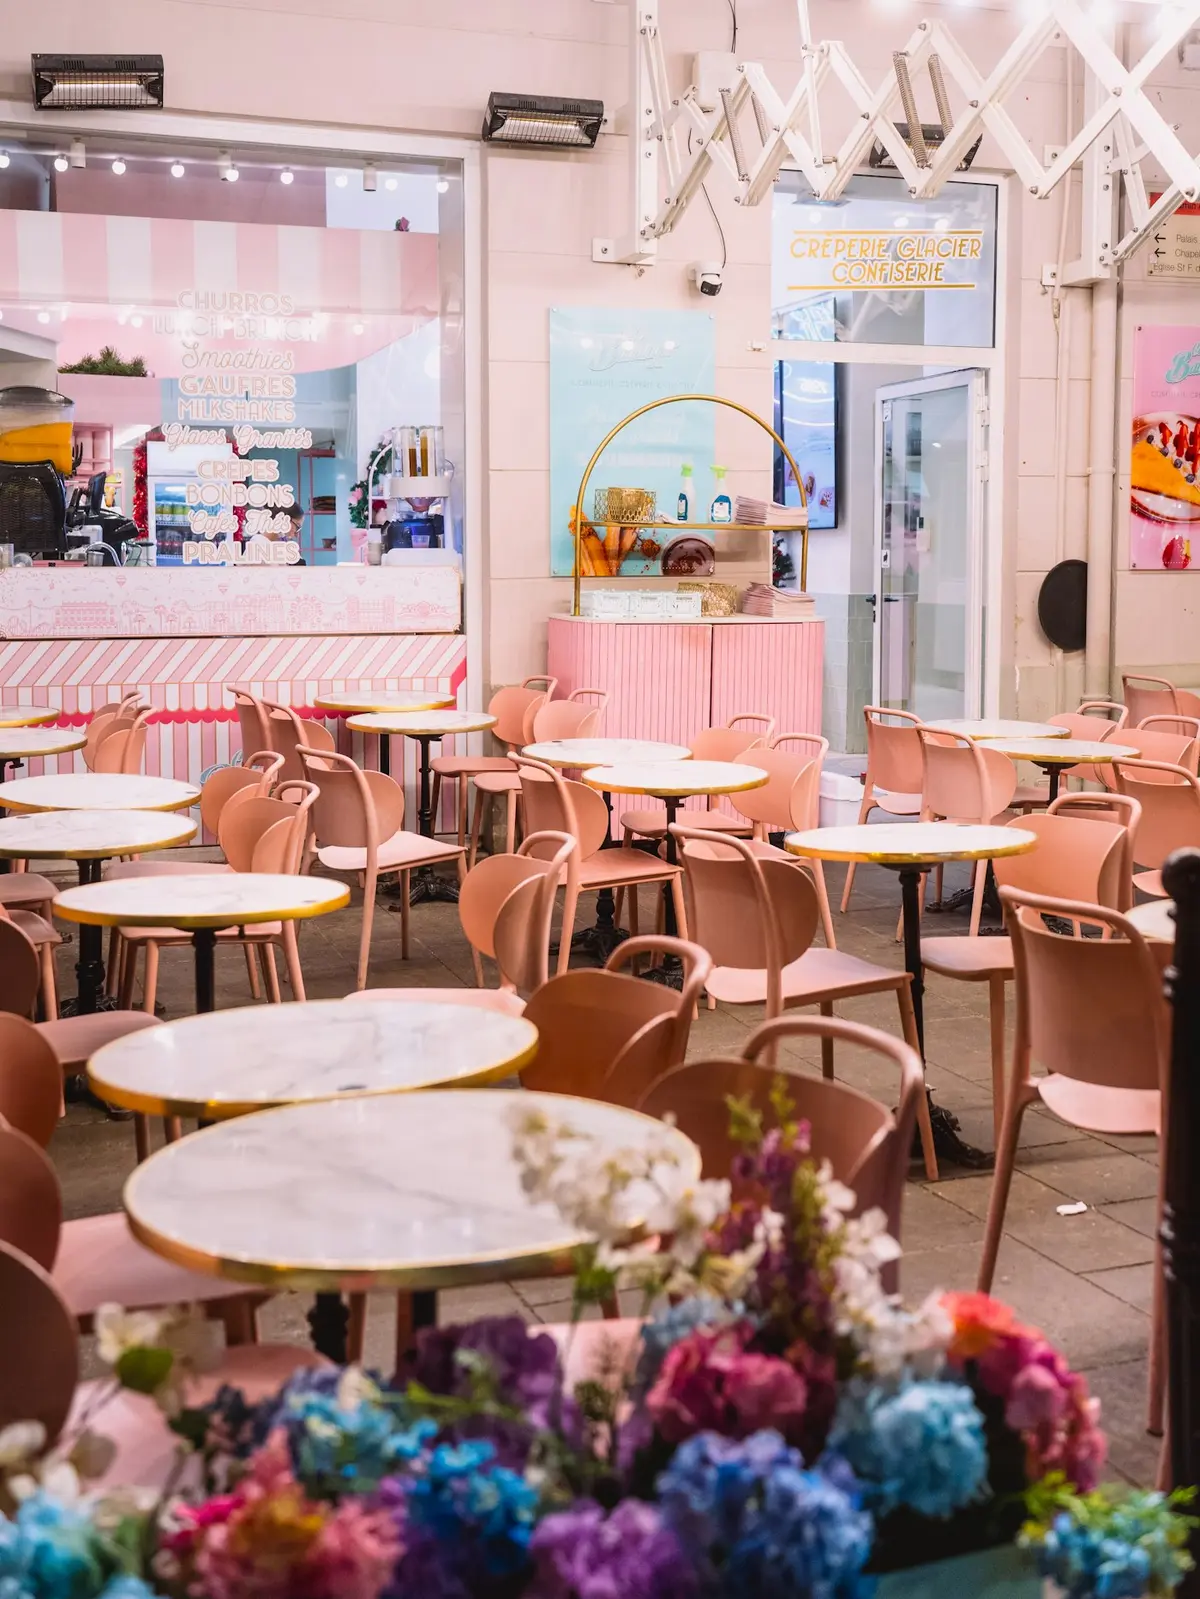
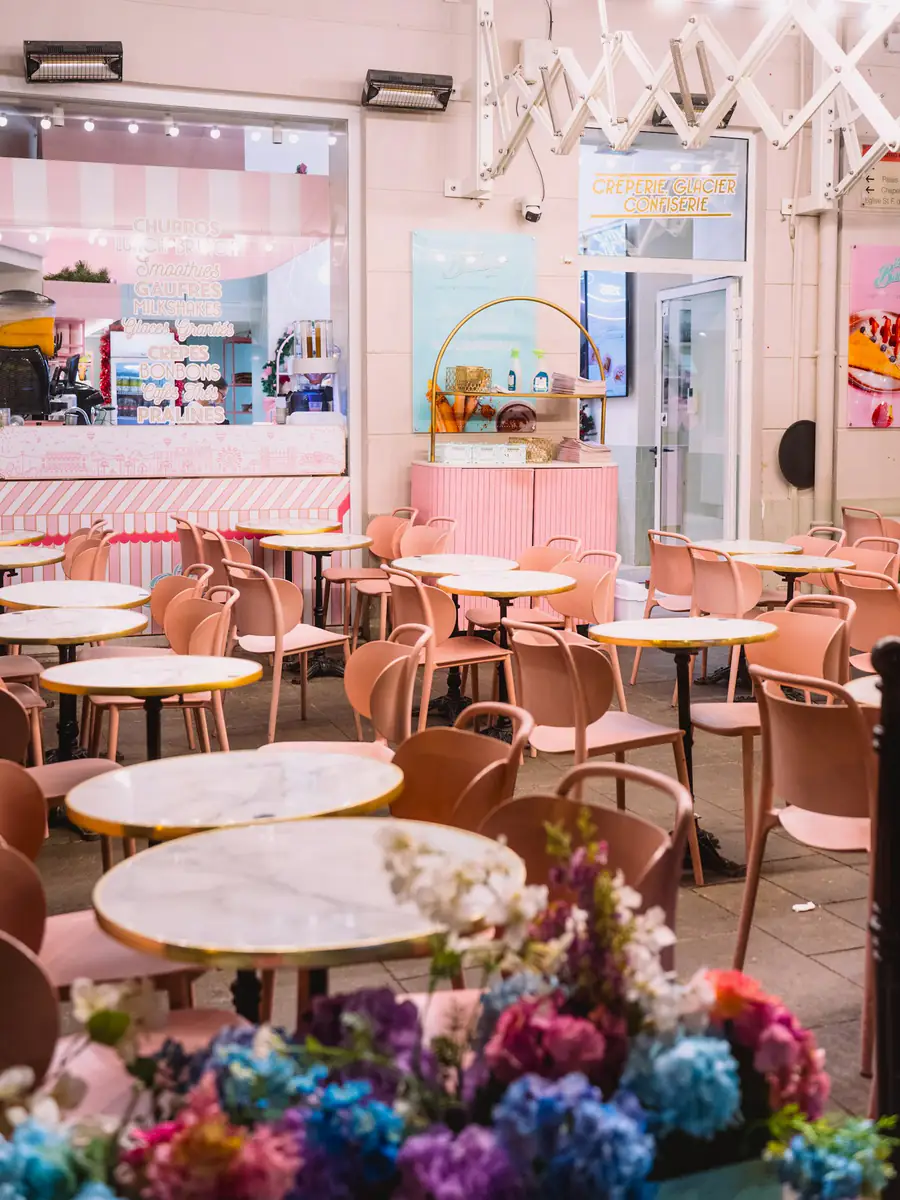
Rodapé com assinatura Felipe.Dev e site mais leve
- Rodapé: assinatura Felipe.Dev à direita e só "Projeto fictício de portfólio" à esquerda
- Donut só flutua (sem seguir o mouse nem arrastar); sombra calculada uma vez
- Fotos reexportadas no tamanho em que aparecem (1,4 MB -> 574 kB)
- Caldas escorrem uma vez ao aparecer, sem refazer o filtro a cada rolagem
- Bolhas desfocadas estáticas e CSS do mapa carregado junto com o mapa

Changed region(s): [[0.7467, 0.1542, 0.8089, 0.185], [0.9956, 0.2775, 1.0, 0.3083]]

diff --git a/src/three/HeroCanvas.tsx b/src/three/HeroCanvas.tsx
@@ -1,4 +1,4 @@
-import { ContactShadows, Environment, Float, Lightformer, PresentationControls } from '@react-three/drei'
+import { ContactShadows, Environment, Float, Lightformer } from '@react-three/drei'
 import { Canvas, useFrame } from '@react-three/fiber'
 import { useEffect, useRef, useState } from 'react'
 import type { Group } from 'three'
@@ -11,17 +11,14 @@ function Scene({ reduced }: Props) {
   const tiltRef = useRef<Group>(null)
   const spinRef = useRef<Group>(null)
 
-  useFrame((state, delta) => {
+  useFrame((_, delta) => {
     const tilt = tiltRef.current
     const spin = spinRef.current
     if (!tilt || !spin) return
-    // Gira devagar sozinho e um pouco mais conforme a página rola.
+    // Gira devagar sozinho e inclina um pouco conforme a página rola.
     const scroll = window.scrollY / window.innerHeight
     if (!reduced) spin.rotation.z += delta * 0.18
-    const targetX = -0.95 + scroll * 0.6 + (reduced ? 0 : state.pointer.y * 0.18)
-    const targetY = reduced ? 0 : state.pointer.x * 0.35
-    tilt.rotation.x = MathUtils.damp(tilt.rotation.x, targetX, 4, delta)
-    tilt.rotation.y = MathUtils.damp(tilt.rotation.y, targetY, 4, delta)
+    tilt.rotation.x = MathUtils.damp(tilt.rotation.x, -0.95 + scroll * 0.6, 4, delta)
     tilt.position.y = MathUtils.damp(tilt.position.y, -scroll * 0.8, 4, delta)
   })
 
@@ -31,15 +28,13 @@ function Scene({ reduced }: Props) {
       <directionalLight position={[3, 4, 5]} intensity={1.6} color="#fff4f0" />
       <directionalLight position={[-4, -2, 2]} intensity={0.5} color="#8edfd9" />
 
-      <PresentationControls global={false} cursor snap speed={1.4} polar={[-0.5, 0.5]} azimuth={[-0.9, 0.9]}>
-        <Float speed={reduced ? 0 : 1.6} rotationIntensity={reduced ? 0 : 0.25} floatIntensity={reduced ? 0 : 0.8}>
-          <group ref={tiltRef} rotation={[-0.95, 0, 0]}>
-            <group ref={spinRef} rotation={[0, 0, 0.6]}>
-              <Donut seed={3} />
-            </group>
+      <Float speed={reduced ? 0 : 1.6} rotationIntensity={reduced ? 0 : 0.25} floatIntensity={reduced ? 0 : 0.8}>
+        <group ref={tiltRef} rotation={[-0.95, 0, 0]}>
+          <group ref={spinRef} rotation={[0, 0, 0.6]}>
+            <Donut seed={3} />
           </group>
-        </Float>
-      </PresentationControls>
+        </group>
+      </Float>
 
       {/* Donuts menores ao fundo dão profundidade. */}
       <Float speed={reduced ? 0 : 2.2} rotationIntensity={reduced ? 0 : 1.2} floatIntensity={reduced ? 0 : 1.4}>
@@ -53,7 +48,8 @@ function Scene({ reduced }: Props) {
         </group>
       </Float>
 
-      <ContactShadows position={[0, -1.55, 0]} opacity={0.28} scale={6} blur={2.6} far={3} color="#1f7f79" />
+      {/* Sombra calculada uma vez só, em vez de a cada quadro. */}
+      <ContactShadows frames={1} resolution={256} position={[0, -1.55, 0]} opacity={0.28} scale={6} blur={2.6} far={3} color="#1f7f79" />
 
       {/* Ambiente feito só com luzes, sem baixar HDR. */}
       <Environment resolution={256}>
@@ -84,13 +80,13 @@ export default function HeroCanvas({ reduced }: Props) {
   }, [])
 
   return (
-    <div ref={wrapRef} className="absolute -inset-[18%]">
+    <div ref={wrapRef} className="pointer-events-none absolute -inset-[18%]">
       <Canvas
-        dpr={[1, 1.75]}
+        dpr={[1, 1.5]}
         camera={{ position: [0, 0, 6.4], fov: 38 }}
         frameloop={visible ? 'always' : 'never'}
         gl={{ antialias: true, alpha: true }}
-        aria-label="Donut 3D com cobertura rosa e granulado colorido. Arraste para girar."
+        aria-label="Donut 3D com cobertura rosa e granulado colorido"
         role="img"
       >
         <Scene reduced={reduced} />

diff --git a/src/components/Hero.tsx b/src/components/Hero.tsx
@@ -1,4 +1,4 @@
-import { ArrowsClockwise, InstagramLogo, TiktokLogo, WhatsappLogo } from '@phosphor-icons/react'
+import { InstagramLogo, TiktokLogo, WhatsappLogo } from '@phosphor-icons/react'
 import { lazy, Suspense, useEffect, useRef } from 'react'
 import { hero, site } from '../content'
 import { scrollToId } from '../hooks/useLenis'
@@ -44,7 +44,6 @@ export function Hero() {
       tl.from('[data-letter]', { yPercent: 110, rotate: 8, duration: 1.1, stagger: 0.025 })
         .from('[data-hero-fade]', { y: 30, opacity: 0, duration: 0.9, stagger: 0.1 }, '-=0.7')
         .from('[data-hero-art]', { scale: 0.6, opacity: 0, duration: 1.4, ease: 'elastic.out(1, 0.6)' }, 0.2)
-        .from('[data-chip]', { y: 20, opacity: 0, scale: 0.8, duration: 0.8, stagger: 0.15, ease: 'back.out(2)' }, '-=0.9')
       // Granulados de fundo se afastam ao rolar.
       gsap.to('[data-sprinkle]', {
         y: (i) => -80 - i * 25,
@@ -63,10 +62,10 @@ export function Hero() {
       className="relative isolate overflow-hidden bg-[radial-gradient(120%_90%_at_80%_20%,#bff0ec_0%,#8edfd9_45%,#5fcac3_100%)] pt-28 pb-16 lg:pt-32 lg:pb-24"
     >
       {/* Bolhas de fundo que mudam de forma */}
-      <div aria-hidden="true" className="absolute -left-32 top-1/3 -z-10 size-[28rem] animate-[blob_14s_ease-in-out_infinite] bg-white/25 blur-2xl" />
+      <div aria-hidden="true" className="absolute -left-32 top-1/3 -z-10 size-[28rem] rounded-[58%_42%_55%_45%/48%_58%_42%_52%] bg-white/25 blur-2xl" />
       <div
         aria-hidden="true"
-        className="absolute right-[-10rem] top-[-8rem] -z-10 size-[34rem] animate-[blob_18s_ease-in-out_infinite_reverse] bg-glaze/40 blur-3xl"
+        className="absolute right-[-10rem] top-[-8rem] -z-10 size-[34rem] rounded-[45%_55%_40%_60%/58%_42%_58%_42%] bg-glaze/40 blur-3xl"
       />
       {sprinkles.map((s, i) => (
         <span
@@ -132,13 +131,6 @@ export function Hero() {
           <Suspense fallback={<div className="absolute inset-[18%] animate-pulse rounded-full bg-pink/40" />}>
             <HeroCanvas reduced={reduced} />
           </Suspense>
-
-          <p
-            data-chip
-            className="absolute bottom-0 left-1/2 hidden -translate-x-1/2 items-center gap-2 rounded-full bg-ink/80 px-4 py-2 text-xs font-medium text-white sm:flex"
-          >
-            <ArrowsClockwise size={14} weight="bold" /> Arraste para girar
-          </p>
         </div>
       </div>
     </section>

diff --git a/src/components/About.tsx b/src/components/About.tsx
@@ -70,8 +70,8 @@ export function About() {
               data-parallax
               src="/images/cafe-rosa.webp"
               alt="Salão da confeitaria com mesas de mármore, cadeiras rosa e flores"
-              width={1200}
-              height={1599}
+              width={900}
+              height={1200}
               loading="lazy"
               className="absolute inset-0 h-[118%] w-full -translate-y-[8%] object-cover"
             />
@@ -83,15 +83,21 @@ export function About() {
             <img
               src="/images/confeiteira.webp"
               alt="Confeiteira decorando doces com saco de confeitar"
-              width={1200}
-              height={1800}
+              width={420}
+              height={630}
               loading="lazy"
               className="size-full object-cover"
             />
           </div>
           <SpinningBadge />
-          <span aria-hidden="true" className="absolute -left-10 top-10 -z-10 size-40 animate-[blob_12s_ease-in-out_infinite] bg-mint" />
-          <span aria-hidden="true" className="absolute -bottom-12 right-6 -z-10 size-28 animate-[blob_9s_ease-in-out_infinite_reverse] bg-glaze" />
+          <span
+            aria-hidden="true"
+            className="absolute -left-10 top-10 -z-10 size-40 animate-[spin-slow_24s_linear_infinite] rounded-[58%_42%_55%_45%/48%_58%_42%_52%] bg-mint"
+          />
+          <span
+            aria-hidden="true"
+            className="absolute -bottom-12 right-6 -z-10 size-28 animate-[spin-slow_18s_linear_infinite_reverse] rounded-[45%_55%_40%_60%/58%_42%_58%_42%] bg-glaze"
+          />
         </div>
 
         <div>

diff --git a/src/components/Footer.tsx b/src/components/Footer.tsx
@@ -1,4 +1,3 @@
-import { HeartStraight } from '@phosphor-icons/react'
 import { credits, nav, site } from '../content'
 import { scrollToId } from '../hooks/useLenis'
 import { Drip } from './Drip'
@@ -45,12 +44,12 @@ export function Footer() {
       </div>
       <div className="container-x mt-14 flex flex-col gap-3 border-t border-white/10 pt-6 text-sm text-white/60 md:flex-row md:items-center md:justify-between">
         <p>{credits}</p>
-        <p className="flex items-center gap-1.5">
-          Desenvolvido com <HeartStraight size={14} weight="fill" className="text-pink" aria-label="carinho" /> por
-          <a href={site.author.url} target="_blank" rel="noreferrer" className="link-drip rounded font-semibold text-white">
-            {site.author.name}
-          </a>
-        </p>
+        <a href={site.author.url} target="_blank" rel="noreferrer" className="group rounded-lg md:text-right">
+          <span className="block font-semibold text-white">
+            Felipe<span className="text-white/60">.Dev</span>
+          </span>
+          <span className="link-drip">{site.author.name}, Desenvolvedor Web</span>
+        </a>
       </div>
     </footer>
   )

diff --git a/src/components/Drip.tsx b/src/components/Drip.tsx
@@ -59,9 +59,11 @@ export function Drip({ color, seed = 1, count = 15, className = '', gloss = fals
         { y: (i) => -shape.drips[i].len * 0.85 },
         {
           y: 0,
-          ease: 'none',
-          stagger: { each: 0.04, from: 'random' },
-          scrollTrigger: { trigger: svg, start: 'top 98%', end: 'bottom 35%', scrub: 1.2 },
+          duration: 1.6,
+          ease: 'power2.out',
+          stagger: { each: 0.05, from: 'random' },
+          // Escorre uma vez ao aparecer: o filtro "goo" só é recalculado durante a animação, não a cada rolagem.
+          scrollTrigger: { trigger: svg, start: 'top 90%', once: true },
         },
       )
     }, svg)

diff --git a/src/components/Highlights.tsx b/src/components/Highlights.tsx
@@ -13,7 +13,7 @@ export function Highlights() {
           const Icon = icons[h.icon]
           return (
             <li key={h.title} data-reveal className="group">
-              <span className="grid size-16 animate-[blob_10s_ease-in-out_infinite] place-items-center bg-mint-soft text-mint-deep transition-colors duration-500 group-hover:bg-pink group-hover:text-white">
+              <span className="grid size-16 place-items-center rounded-[58%_42%_55%_45%/48%_58%_42%_52%] bg-mint-soft text-mint-deep transition-colors duration-500 group-hover:bg-pink group-hover:text-white">
                 <Icon
                   size={30}
                   weight="duotone"

diff --git a/src/components/Location.tsx b/src/components/Location.tsx
@@ -33,7 +33,7 @@ export function Location() {
       async ([entry]) => {
         if (!entry.isIntersecting) return
         io.disconnect()
-        const L = await import('leaflet')
+        const [L] = await Promise.all([import('leaflet'), import('leaflet/dist/leaflet.css')])
         if (cancelled) return
         map = L.map(el, { center: location.coords, zoom: 15, maxZoom: 16, scrollWheelZoom: false, zoomControl: false, attributionControl: true })
         L.control.zoom({ position: 'bottomright' }).addTo(map)

diff --git a/src/components/Carousel.tsx b/src/components/Carousel.tsx
@@ -92,8 +92,8 @@ export function Carousel() {
                   <img
                     src={`/images/${p.image}.webp`}
                     alt={p.name}
-                    width={1200}
-                    height={1600}
+                    width={640}
+                    height={960}
                     loading="lazy"
                     draggable={false}
                     className="size-full object-cover transition-transform duration-700 ease-out group-hover:scale-110 group-hover:rotate-1"

diff --git a/src/components/Menu.tsx b/src/components/Menu.tsx
@@ -83,8 +83,8 @@ export function Menu() {
                   <img
                     src={`/images/${p.image}.webp`}
                     alt=""
-                    width={1200}
-                    height={1600}
+                    width={640}
+                    height={960}
                     loading="lazy"
                     className="size-full object-cover transition-transform duration-700 group-hover:scale-115"
                   />

diff --git a/src/components/Cta.tsx b/src/components/Cta.tsx
@@ -9,8 +9,8 @@ export function Cta() {
       <img
         src="/images/donuts-rosa.webp"
         alt=""
-        width={1200}
-        height={800}
+        width={900}
+        height={600}
         loading="lazy"
         className="absolute -right-24 bottom-0 hidden w-[34rem] rotate-6 rounded-[3rem] opacity-90 mix-blend-luminosity lg:block"
       />

diff --git a/src/index.css b/src/index.css
@@ -201,19 +201,6 @@ html.lenis body {
   }
 }
 
-@keyframes blob {
-  0%,
-  100% {
-    border-radius: 58% 42% 55% 45% / 48% 58% 42% 52%;
-  }
-  33% {
-    border-radius: 45% 55% 40% 60% / 58% 42% 58% 42%;
-  }
-  66% {
-    border-radius: 52% 48% 62% 38% / 42% 55% 45% 58%;
-  }
-}
-
 @keyframes wobble {
   0%,
   100% {

diff --git a/src/content.ts b/src/content.ts
@@ -156,4 +156,4 @@ export const location = {
   ],
 }
 
-export const credits = 'Fotos: Unsplash (licença livre). Projeto fictício de portfólio.'
+export const credits = 'Projeto fictício de portfólio.'
